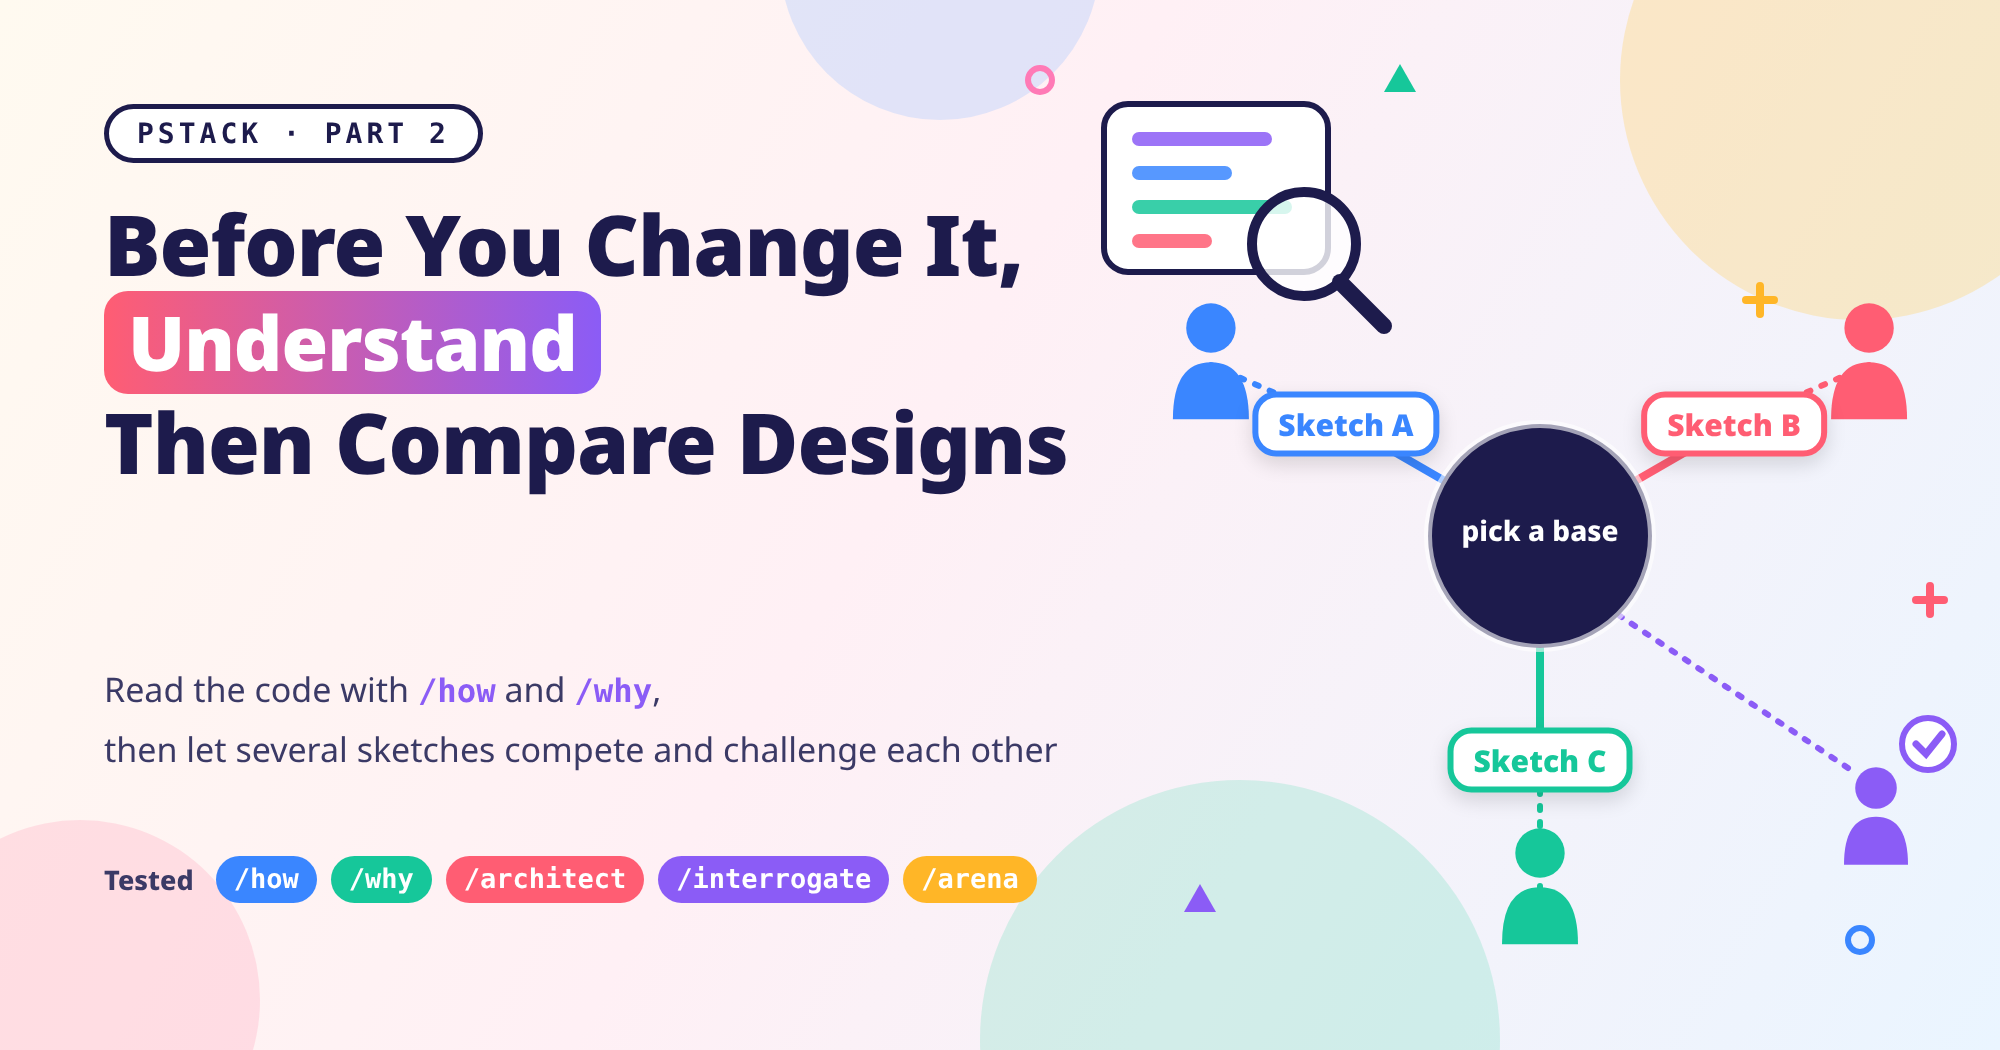
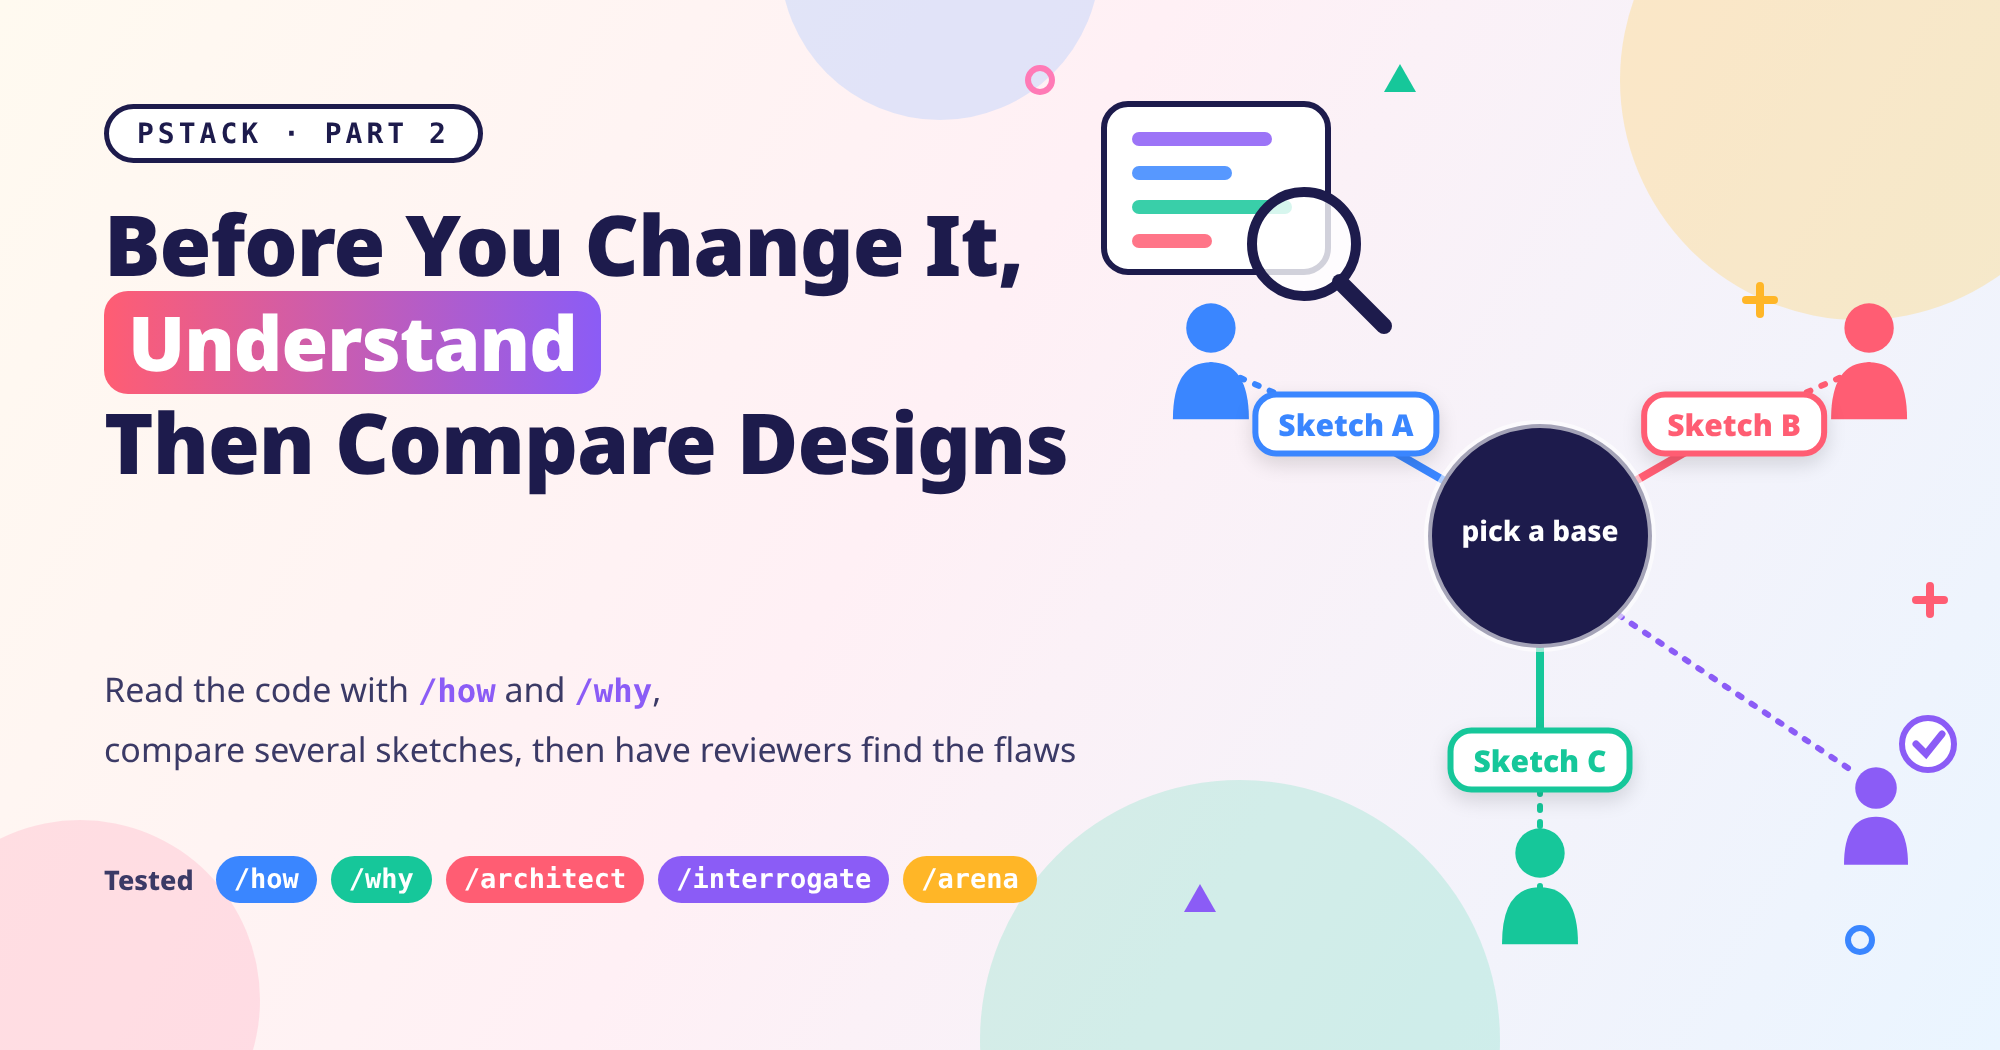
fix(posts): pstack 系列（2）依審稿 v1 修正
- M-1 第 1 篇略過三個 skill 的理由改回分列
- M-2 開頭摘要改成「都比看懂程式貴得多」
- L-1 到 L-8、zh-CN 補 prompt 在地化說明；date 改 21:45
- 重新產生三語封面（副標）

JM-20261021-003

Changed region(s): [[0.031, 0.701, 0.558, 0.7314]]

diff --git a/_posts/en/2026-10-23-pstack-understand-design.md b/_posts/en/2026-10-23-pstack-understand-design.md
@@ -1,7 +1,7 @@
 ---
 title: "pstack, Part 2: Understand the Code, Then Design, Before You Change It"
 description: "How do you get AI to understand code and compare designs before changing it? I tested pstack's /how, /why, /architect, /interrogate, and /arena in Claude Code."
-date: 2026-10-23 21:00:00 +0800
+date: 2026-10-23 21:45:00 +0800
 categories: [AI, skills]
 tags: [agent-skills, coding-agent, workflow, claude-code, cursor]
 media_subpath: /assets/img/posts/pstack-understand-design/
@@ -20,7 +20,7 @@ A few terms first. pstack is a set of skills in Cursor's official plugin reposit
 - `/arena`: has several subagents each do the same task, then picks one result as the base and grafts in the good parts of the others.
 - `/interrogate`: has reviewers running on different models each look for problems in a design or a change.
 
-In Claude Code, commands carry the plugin name in front, as in `/pstack:how`. I ran each of these five skills once on the same practice project. Every point in the `/how` explanation checked out. `/why` was mostly right, with one line number off by one. Each of the three design steps caught real problems, but each costs more than the last: one `/architect` run used USD 4.29 in API-equivalent cost.
+In Claude Code, commands carry the plugin name in front, as in `/pstack:how`. I ran each of these five skills once on the same practice project. Every point in the `/how` explanation checked out. `/why` was mostly right, with one line number off by one. Each of the three design steps caught real problems, but each cost far more than understanding the code: one `/architect` run used USD 4.29 in API-equivalent cost.
 
 > pstack Series | Part 2
 >
@@ -58,7 +58,7 @@ It proposed these changes:
 
 But it couldn't save the file. Claude Code treats `~/.claude/rules/pstack-models.md` as a sensitive file and replied "Claude requested permissions to edit … which is a sensitive file." Even when the allowlist names this file, Claude Code wants a confirmation in the interface, and `-p` mode has no way to confirm, so the write was blocked. In Part 1, the write was stopped by a rule I set on purpose; this time Claude Code blocked it on its own.
 
-It suggested two ways forward: click Allow when the permission prompt appears, or overwrite the file myself. At 15:54 I wrote the proposed content into the file by hand, word for word. So setup-pstack proposed this configuration, and I wrote it in by hand; it didn't save it itself. In every run after that, the models and effort levels it dispatched matched this file. This step took 25 seconds and USD 0.208 in API-equivalent cost.
+It suggested two ways forward: click Allow when the permission prompt appears, or overwrite the file myself. At 15:54 I wrote the proposed content into the file by hand, word for word. So setup-pstack proposed this configuration, and I wrote it in by hand; it didn't save it itself. In every run after that, the models and effort levels it dispatched matched this file. (`/how` and `/why` had already finished before the write, and their roles are opus high in both the old and new settings; the arena runner count of 2 was my own override.) This step took 25 seconds and USD 0.208 in API-equivalent cost.
 
 ## Understanding the Code: /how and /why
 
@@ -194,7 +194,7 @@ The three reviewers reported 10, 9, and 17 findings, with haiku reporting the mo
 
 I spot-checked 3 of these in Python, and all three hold: `Decimal('1E+30').quantize(Decimal('0.01'))` raises `InvalidOperation`, which is an `ArithmeticError`; `'２０２６-10'` and `'0000-10'` both pass the sketch's month regex; and `Decimal('150.000')`, which equals 150.00, is wrongly rejected by the sketch's "more than two decimal places" rule.
 
-Architect's rationale said listing every month would "never miss a month." All three reviewers pointed out that months with no transactions are in fact skipped. The sample also shows housing 1200.00 next to "2026-10 housing 0.00," which is the very situation architect cited to reject the "latest month" option. The main conversation's advice was that the conclusion doesn't have to change, but the first open question should be argued again with these counterexamples before I decide. The rationale written by one skill had a hole found by the next.
+Architect's rationale said listing every month would "never silently miss a month." All three reviewers pointed out that months with no transactions are in fact skipped. The sample also shows housing 1200.00 next to "2026-10 housing 0.00," which is the very situation architect cited to reject the "latest month" option. The main conversation's advice was that the conclusion doesn't have to change, but the first open question should be argued again with these counterexamples before I decide. The rationale written by one skill had a hole found by the next.
 
 Among the 4 dismissed findings was haiku's "ANSI escape injection." The main conversation's reason: the budget file is the user's own local file, and the existing code prints transaction categories the same way. The guide reminds you to [read the dismissals too](https://github.com/cursor/plugins/blob/eb4db2b55b2b7dec3d9282754cddf0a56bf4ff10/pstack/docs/guide/04-design.md#L71), because the main conversation isn't always right and you can overrule it. On the other hand, haiku also had two findings that only it raised and that turned out to be true: `(-50)` is treated as +50, and the jq example in the rationale doesn't work. It cost only USD 0.026.
 
@@ -204,7 +204,7 @@ One run isn't enough to say whether the guide's warning is right. This sketch al
 
 ### /arena: Two Runners Do the Same Job
 
-[Arena's SKILL.md](https://github.com/cursor/plugins/blob/eb4db2b55b2b7dec3d9282754cddf0a56bf4ff10/pstack/skills/arena/SKILL.md#L11-L18) has six phases. Frame: write one task brief shared by every candidate, set a rubric (3 to 6 criteria that can be scored), and pick the runners. Fan out: send the runners in parallel. Cross-judge: a read-only judge on a different model scores them. Pick a base: choose one candidate as the base. Graft: bring in the good parts of the others. Verify: check the result.
+[Arena's SKILL.md](https://github.com/cursor/plugins/blob/eb4db2b55b2b7dec3d9282754cddf0a56bf4ff10/pstack/skills/arena/SKILL.md#L9-L18) has six phases. Frame: write one task brief shared by every candidate, set a rubric (3 to 6 criteria that can be scored), and pick the runners. Fan out: send the runners in parallel. Cross-judge: a read-only judge on a different model scores them. Pick a base: choose one candidate as the base. Graft: bring in the good parts of the others. Verify: check the result.
 
 The number of runners comes from the `/setup-pstack` settings by default, but [you can change it per run](https://github.com/cursor/plugins/blob/eb4db2b55b2b7dec3d9282754cddf0a56bf4ff10/pstack/docs/guide/04-design.md#L47-L51). The settings file says 3; this time I asked for only 2 in the prompt (opus high and haiku high) to bring N down to the minimum:
 
@@ -255,7 +255,7 @@ Based on this run, here's how to choose:
 | You have a diff, or a sketch down to function signatures, and want different models to find problems | `/interrogate` | 22 min 35 s (about 200 s of actual compute), USD 2.030 |
 | A small, concrete change where you want to compare two or three ways to write it | `/arena` | About 6 min, USD 2.288 |
 
-[The guide warns](https://github.com/cursor/plugins/blob/eb4db2b55b2b7dec3d9282754cddf0a56bf4ff10/pstack/docs/guide/03-understand.md#L77) not to skip `/how` just because "the AI will read the code anyway"; running `/how` first is cheaper than fixing the second bug. But when Part 1 added `--json`, it skipped `/how`, `/architect`, and `/interrogate` on its own, because the change touched only two small files. For a very small change, you don't have to run the whole set.
+[The guide warns](https://github.com/cursor/plugins/blob/eb4db2b55b2b7dec3d9282754cddf0a56bf4ff10/pstack/docs/guide/03-understand.md#L77) not to skip `/how` just because "the AI will read the code anyway"; running `/how` first is cheaper than fixing the second bug. But when Part 1 added `--json`, it skipped `/how`, `/architect`, and `/interrogate` on its own: the related code was only two small files it had already read, four design subagents would cost more than the change itself, and the design wasn't contested. For a very small change, you don't have to run the whole set.
 
 The guide also suggests answering design questions that can't be settled by building a few throwaway prototypes with the [Prototype playbook](https://github.com/cursor/plugins/blob/eb4db2b55b2b7dec3d9282754cddf0a56bf4ff10/pstack/docs/guide/04-design.md#L73-L81), instead of asking you over and over. I did **not test** that playbook this time. The AI stopped to ask me twice in this run: architect's 5 open questions, and arena's discovery that my spec contradicted itself. Both were requirements for me to decide, not questions code could answer.
 
@@ -265,7 +265,7 @@ I observed all of the following in this run's environment (account, versions, `-
 
 **1. setup-pstack can't write its own settings file.** Claude Code treats `~/.claude/rules/pstack-models.md` as a sensitive file and wants an interactive confirmation even when the allowlist permits it. `-p` mode has no way to confirm, so the write is refused outright.
 
-**2. Subagents' Bash is often blocked, and the main conversation makes up for it.** In architect, interrogate, and arena alike, some subagent Bash calls were refused, and each time the main conversation did the checks itself and noted in its report what hadn't actually run. In Part 1, I saw background subagents unable to run Bash at all; this time the `/why` investigators running in the background could run git commands, though a few commands were still refused. When blocked, they switched to Read, Grep, or simpler commands and noted in their reports what they hadn't actually run.
+**2. Subagents' Bash is often blocked, and the main conversation makes up for it.** In architect, interrogate, and arena alike, some subagent Bash calls were refused, and each time the main conversation did the checks itself. In Part 1, I saw background subagents unable to run Bash at all; this time the `/why` investigators running in the background could run git commands, though a few commands were still refused. When blocked, they switched to Read, Grep, or simpler commands and noted in their reports what they hadn't actually run.
 
 **3. Effort followed the settings this time.** Every subagent dispatched this time ran at effort high, matching the settings file; in Part 1, both the bug fix and the feature used low.
 
